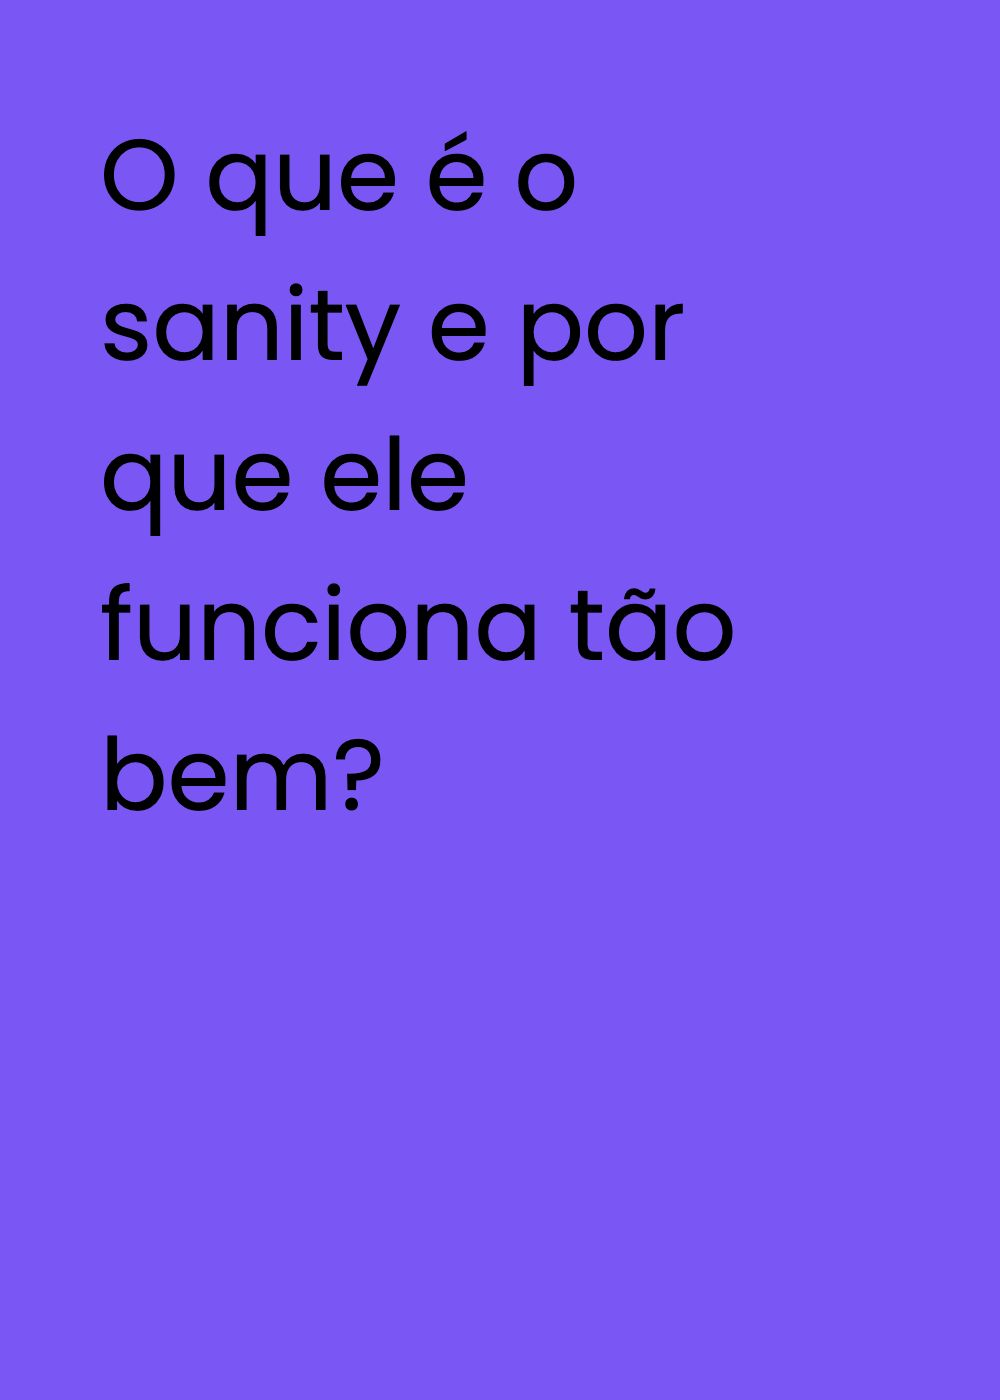
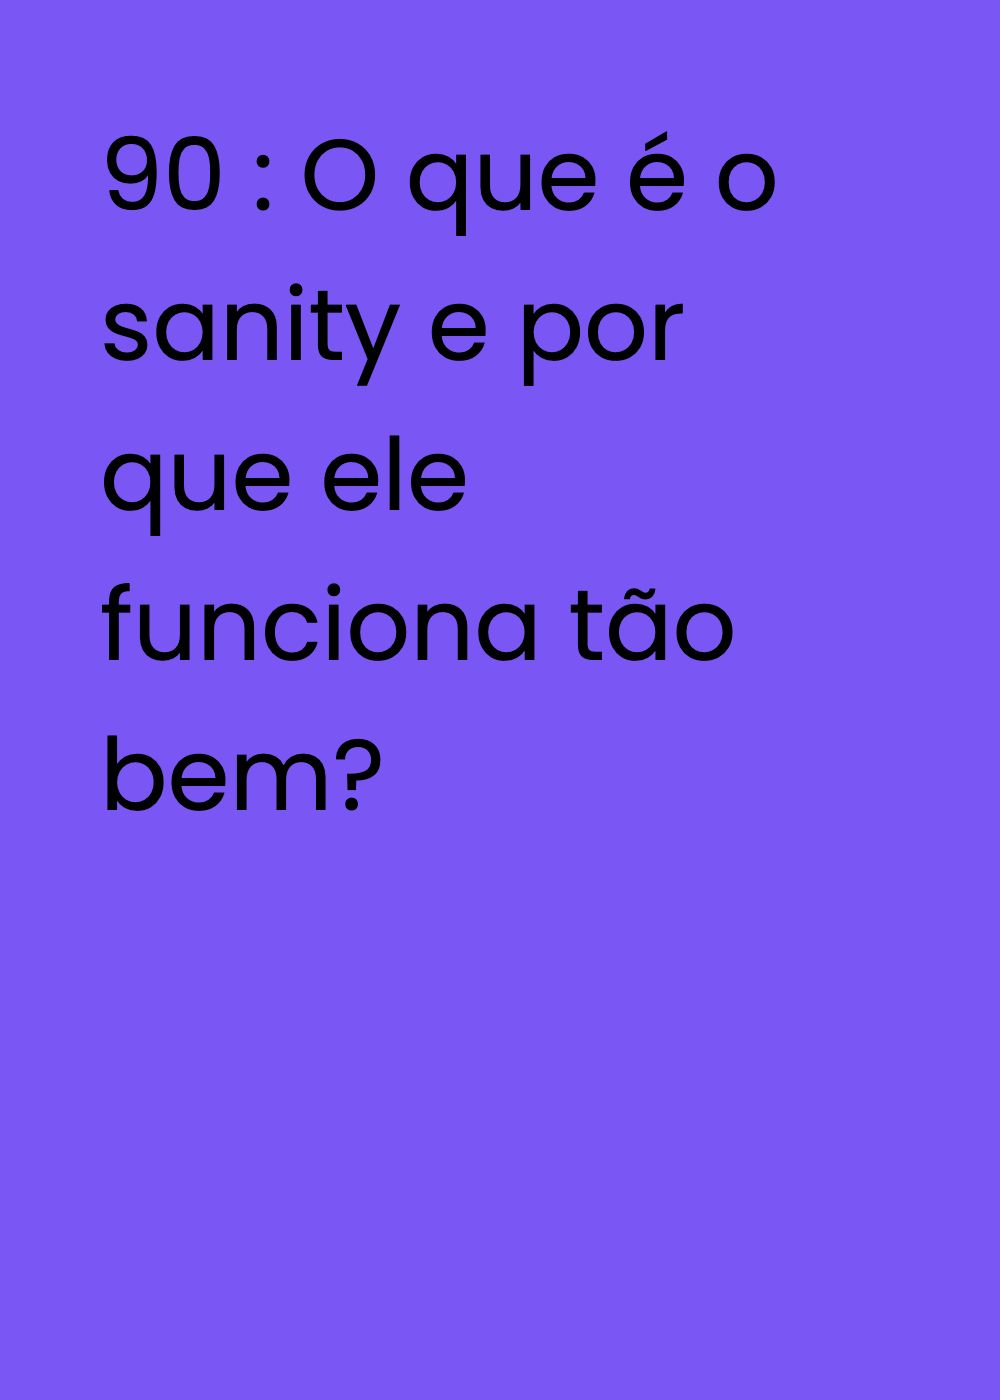
falling cards

Changed region(s): [[0.093, 0.0921, 0.682, 0.1843], [0.713, 0.0921, 0.775, 0.1536]]

diff --git a/web/src/3dComponents/Card.tsx b/web/src/3dComponents/Card.tsx
@@ -1,18 +1,9 @@
 /* eslint-disable @typescript-eslint/no-namespace */
 import { Image } from "@react-three/drei";
-import { ReactThreeFiber, extend } from "@react-three/fiber";
+import { GroupProps, ReactThreeFiber, extend } from "@react-three/fiber";
+import { useMemo } from "react";
 import * as THREE from "three";
-
-declare global {
-  namespace JSX {
-    interface IntrinsicElements {
-      cardGeometry: ReactThreeFiber.Object3DNode<
-        CardGeometry,
-        typeof CardGeometry
-      >;
-    }
-  }
-}
+import { drand } from "../utils.tsx";
 
 //taken from https://codesandbox.io/p/sandbox/cards-with-border-radius-9s2wd9?file=%2Fsrc%2Futil.js%3A1%2C1-55%2C1
 
@@ -20,32 +11,60 @@ declare global {
 // https://discourse.threejs.org/t/simple-curved-plane/26647/10
 
 class CardGeometry extends THREE.PlaneGeometry {
-  constructor() {
-    super(2.5, 3.5, 10, 2020);
+  private _curveZ = 0.1;
+  private _curveY = 0.1;
 
+  public get curveZ() {
+    return this._curveZ;
+  }
+  public set curveZ(value) {
+    if (value === this._curveZ) {
+      return;
+    }
+    this._curveZ = value;
+    this.recreate();
+  }
+
+  public get curveY() {
+    return this._curveY;
+  }
+  public set curveY(value) {
+    if (value === this._curveY) {
+      return;
+    }
+    this._curveY = value;
+    this.recreate();
+  }
+
+  constructor() {
+    super(2.5, 3.5, 25, 35);
+
+    this.recreate();
+  }
+
+  recreate() {
     const pos = this.attributes.position;
 
     for (let i = 0; i < pos.count; i++) {
       const x = pos.getX(i);
       const y = pos.getY(i);
-      let z = pos.getZ(i);
+      let z = 0;
 
       const distanceY = (y / this.parameters.height) * 2;
       const distanceX = (x / this.parameters.width) * 2;
 
       const offset = Math.PI / 2;
+
       const freqZ = 2;
-      const scaleZ = 0.1;
 
-      const freqY = 1;
-      const scaleY = 0.5;
+      const freqY = 2;
 
-      const curveZ = Math.sin(distanceY * freqZ + offset) * scaleZ - scaleZ;
-      const curveY = Math.cos(distanceX * freqY + offset) * scaleY - scaleY;
+      const curveZ =
+        Math.sin(distanceY * freqZ + offset) * this.curveZ - this.curveZ;
 
-      if (distanceY === 0) {
-        console.log({ curveY, curveZ });
-      }
+      const curveY =
+        Math.sin(distanceX * freqY + offset) * this.curveY - this.curveY;
+
       z += curveZ;
       z -= curveY;
 
@@ -57,10 +76,14 @@ class CardGeometry extends THREE.PlaneGeometry {
 
 extend({ CardGeometry });
 
-export function Card() {
+export function Card(props: GroupProps) {
+  const params = useMemo(() => {
+    return { curveZ: drand(-0.2, 0.2), curveY: drand(-0.2, 0.2) };
+  }, []);
+
   return (
     <>
-      <group position={[0, 5, 0]}>
+      <group {...props}>
         <Image
           castShadow
           radius={0.222}
@@ -68,7 +91,7 @@ export function Card() {
           transparent
           url="/card-red.png"
         >
-          <cardGeometry></cardGeometry>
+          <cardGeometry {...params}></cardGeometry>
         </Image>
 
         <Image
@@ -78,9 +101,20 @@ export function Card() {
           transparent
           url="http://localhost:3000/screenshot"
         >
-          <cardGeometry></cardGeometry>
+          <cardGeometry {...params}></cardGeometry>
         </Image>
       </group>
     </>
   );
+}
+
+declare global {
+  namespace JSX {
+    interface IntrinsicElements {
+      cardGeometry: ReactThreeFiber.Object3DNode<
+        CardGeometry,
+        typeof CardGeometry
+      >;
+    }
+  }
 }

diff --git a/web/src/Stage.tsx b/web/src/Stage.tsx
@@ -1,25 +1,98 @@
 /* eslint-disable @typescript-eslint/no-explicit-any */
 /* eslint-disable @typescript-eslint/no-unused-vars */
 import { OrbitControls, useHelper } from "@react-three/drei";
-import { Canvas } from "@react-three/fiber";
-import { useRef } from "react";
-import { Euler, PointLightHelper, SpotLightHelper } from "three";
-
+import { Canvas, GroupProps, useFrame } from "@react-three/fiber";
+import { useMemo, useRef } from "react";
+import { Euler, Group, PointLightHelper, SpotLightHelper } from "three";
 import "./3dComponents/Card.tsx";
 import { Card } from "./3dComponents/Card.tsx";
+import { useGlobalState } from "./State.tsx";
 import "./utils.tsx";
+import { drand, fit } from "./utils.tsx";
+
+const INITIAL_Y = 30;
+const INITIAL_H_AREA = 12;
+const SLOW_MO = 1.1;
 
 export function Stage() {
   return (
     <Canvas
+      dpr={[1, 2]}
       camera={{
-        position: [0, 0, 6],
+        fov: 50,
+        position: [0, INITIAL_Y, 6],
+        rotation: [0, 0, 0],
       }}
       shadows
     >
       <Scene />
-      <OrbitControls />
+      <OrbitControls target={[0, INITIAL_Y, 0]} />
+      <Cards />
     </Canvas>
+  );
+}
+
+function FallingCard(props: GroupProps) {
+  const { mode } = useGlobalState();
+  const consts = useMemo(() => {
+    return {
+      x: drand(-1, 1),
+      y: drand(-1, 1),
+      z: drand(-1, 1),
+    };
+  }, []);
+  const ref = useRef<Group>(null);
+
+  useFrame((state, delta) => {
+    if (ref.current && mode == "home") {
+      if (ref.current.position.y < INITIAL_Y - INITIAL_H_AREA) {
+        ref.current.position.y += INITIAL_H_AREA * 2;
+      }
+
+      ref.current.position.y -= delta * 10 * SLOW_MO;
+      ref.current.rotation.x += consts.x * delta * SLOW_MO;
+      ref.current.rotation.y += consts.y * delta * SLOW_MO;
+      ref.current.rotation.z += consts.z * delta * SLOW_MO;
+    }
+  });
+
+  // useEffect(() => {
+  //   if (mode == "cards") {
+  //   }
+  // }, [mode]);
+
+  return (
+    <group {...props} ref={ref}>
+      <Card />
+    </group>
+  );
+}
+
+function Cards() {
+  const initialProps = useMemo(() => {
+    return Array(20)
+      .fill(0)
+      .map((_, i) => {
+        const distance = fit(i, 4, 20);
+        const angle = -Math.PI / 2 + fit(i * 10.95, -1.5, 1.5);
+
+        return {
+          rotation: [drand() * 3, drand() * 3, drand() * 3] as any,
+          position: [
+            Math.cos(angle) * distance,
+            INITIAL_Y + fit(i, -INITIAL_H_AREA, INITIAL_H_AREA),
+            Math.sin(angle) * distance,
+          ] as any,
+        };
+      });
+  }, []);
+
+  return (
+    <>
+      {initialProps.map((props, i) => {
+        return <FallingCard key={i} {...props} />;
+      })}
+    </>
   );
 }
 

diff --git a/web/src/utils.tsx b/web/src/utils.tsx
@@ -37,3 +37,23 @@ class BentPlaneGeometry extends THREE.PlaneGeometry {
 }
 
 extend({ BentPlaneGeometry });
+
+export function rand(min: number = 0, max: number = 1) {
+  return min + Math.random() * (max - min);
+}
+
+import RandSeed from "rand-seed";
+
+const detRand = new RandSeed("11"); // hardcoded seed to keep it deterministic
+
+export function drand(min: number = 0, max: number = 1) {
+  return min + detRand.next() * (max - min);
+}
+
+export function lerp(ini: number, end: number, t: number) {
+  return ini + (end - ini) * t;
+}
+
+export function fit(i: number, min: number = 0, max: number = 1) {
+  return min + (i % (max - min));
+}

diff --git a/web/src/State.tsx b/web/src/State.tsx
@@ -1,0 +1,26 @@
+import { PropsWithChildren, createContext, useContext, useState } from "react";
+
+const StateContext = createContext<{ mode: "home" | "cards" }>({
+  mode: "home",
+});
+
+export function StateProvider({ children }: PropsWithChildren) {
+  const [mode, setMode] = useState<"home" | "cards">("home");
+
+  return (
+    <StateContext.Provider value={{ mode }}>
+      <button
+        onClick={() => {
+          setMode("cards");
+        }}
+      >
+        Go to Cards
+      </button>
+      {children}
+    </StateContext.Provider>
+  );
+}
+
+export function useGlobalState() {
+  return useContext(StateContext);
+}

diff --git a/web/src/components/CardBackface.tsx b/web/src/components/CardBackface.tsx
@@ -3,7 +3,8 @@ export function CardBackface() {
     <div className="aspect-[5/7] w-screen bg-purple2">
       <div className="p-[10vw]">
         <div className="text-[10vw]">
-          O que é o sanity e por que ele funciona tão bem?
+          {Math.round(100 * Math.random())} : O que é o sanity e por que ele
+          funciona tão bem?
         </div>
       </div>
     </div>

diff --git a/web/src/App.tsx b/web/src/App.tsx
@@ -1,9 +1,12 @@
 import { Stage } from "./Stage.tsx";
+import { StateProvider } from "./State.tsx";
 
 function App() {
   return (
     <>
-      <Stage />
+      <StateProvider>
+        <Stage />
+      </StateProvider>
     </>
   );
 }
